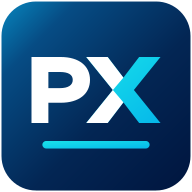
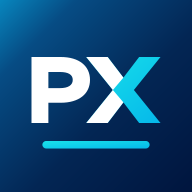
Release Version 4.1.2 visual refinements

Changed region(s): [[0.0, 0.0, 1.0, 1.0]]

diff --git a/index.html b/index.html
@@ -7,10 +7,11 @@
 <meta name="apple-mobile-web-app-capable" content="yes">
 <meta name="apple-mobile-web-app-status-bar-style" content="black-translucent">
 <meta name="apple-mobile-web-app-title" content="PX 工作台">
-<link rel="manifest" href="manifest.webmanifest">
-<link rel="apple-touch-icon" href="icon-192.png">
-<link rel="icon" type="image/png" sizes="32x32" href="favicon.png">
-<link rel="icon" type="image/svg+xml" href="assets/brand/px-icon.svg">
+<link rel="manifest" href="manifest.webmanifest?v=4.1.2">
+<link rel="apple-touch-icon" sizes="180x180" href="apple-touch-icon.png?v=4.1.2">
+<link rel="icon" type="image/png" sizes="16x16" href="favicon-16.png?v=4.1.2">
+<link rel="icon" type="image/png" sizes="32x32" href="favicon.png?v=4.1.2">
+<link rel="icon" type="image/svg+xml" href="assets/brand/px-icon.svg?v=4.1.2">
 <title>PX 通路工作台</title>
 <style>
 :root{
@@ -115,22 +116,27 @@ input,select{border-color:#b9cad5;background:#fff}.cost-override-note{display:bl
 
 /* Version 4.1.1 — restrained result surfaces and author cleanup */
 .hero:after{opacity:.035}.result{color:#075f68;background:#f0f8f8;border:1px solid #c9e3e5;box-shadow:0 8px 20px rgba(16,42,67,.07)}.result.excellent{color:#174f38;background:#f2f8f4;border-color:#cfe4d7}.result.warn{color:#795316;background:#fff9ed;border-color:#ead9b5}.result.danger{color:#87363c;background:#fff4f4;border-color:#e9ced0}.result.neutral{color:#405a6a;background:#f3f6f8;border-color:#d8e2e8}.result small,.result em{color:#607482;opacity:1}.result strong{color:inherit;white-space:nowrap}.margin-status{border:0;color:#fff}.margin-status.excellent{background:#216847;color:#fff}.margin-status.target{background:#08727c;color:#fff}.margin-status.optimize{background:#936113;color:#fff}.margin-status.low{background:#9b4148;color:#fff}.scenario-state.excellent{background:#216847;color:#fff}.scenario-state.target{background:#08727c;color:#fff}.scenario-state.optimize{background:#936113;color:#fff}.scenario-state.low{background:#9b4148;color:#fff}.threshold-settings summary{gap:8px}.settings-icon{flex:0 0 auto;width:19px;height:19px;color:#405769;fill:none;stroke:currentColor;stroke-width:1.8;stroke-linecap:round;stroke-linejoin:round}.hs-footer{display:block;text-align:center}.hs-copy{min-width:0}.hs-copy .built-by{margin-top:2px;font-size:10px;color:#70818c}
+
+/* Version 4.1.2 — final micro-refinements and full-bleed app icons */
+.hs-copy .built-by{font-size:9px;font-weight:400;color:#70818c;opacity:.6}
+.tabs-shell{position:relative;min-width:0}
+@media(max-width:620px){.tabs-shell::after{content:"";position:absolute;z-index:3;top:10px;right:0;bottom:10px;width:32px;background:linear-gradient(90deg,rgba(243,246,248,0),rgba(243,246,248,.98));pointer-events:none}.tabs-shell.at-end::after,.tabs-shell.no-overflow::after{display:none}}
 </style>
 </head>
 <body>
 <main class="app">
 <header class="hero">
  <div class="brand"><img class="brand-logo" src="assets/brand/px-logo.svg" alt="PX"><div class="brand-copy"><h1>PX 通路工作台</h1><p><span class="developer-primary">開發者：弘昇</span><span class="developer-secondary">｜Built by HS</span></p></div></div>
- <div class="meta"><span class="pill">VERSION 4.1.1</span><span class="pill">個人工作輔助工具</span><span class="pill">固定稅率 5%</span></div>
+ <div class="meta"><span class="pill">VERSION 4.1.2</span><span class="pill">個人工作輔助工具</span><span class="pill">固定稅率 5%</span></div>
 </header>
 
-<nav class="tabs">
+<div class="tabs-shell"><nav class="tabs">
  <button class="tab active" data-tab="calc">毛利正算</button>
  <button class="tab" data-tab="reverse">回推售價</button>
  <button class="tab" data-tab="scenario">情境比較</button>
  <button class="tab" data-tab="promo">促銷試算</button>
  <button class="tab" data-tab="basis">計算依據</button>
-</nav>
+</nav></div>
 
 <section id="calc" class="panel active">
  <div class="card">
@@ -361,7 +367,7 @@ function productInfoMarkup(binding,product,data){
 function salesMarkup(data,analysis){
  if(!data||!analysis)return `<section class="card px-sales-card"><div class="px-section-head"><h2>PX 銷售表現</h2></div><div class="px-empty">此商品目前沒有可確認的 PX 實銷與前毛資料。成本主檔保留，前毛與相關試算不推算假資料。</div></section>`;
  const averageLabel=analysis.validCount>=3?"近 3 月均銷":"資料起始至今月均銷",monthRows=data.sales.map((value,index)=>{const prelaunch=index<analysis.launchIndex,label=prelaunch?"尚無資料":Number.isFinite(value)?countText(value):"—";return `<div class="month-row${prelaunch?" prelaunch":""}"><span>${PX_PERIODS[index]}</span><b>${label}</b></div>`}).join("");
- return `<section class="card px-sales-card"><div class="px-section-head"><h2>PX 銷售表現</h2>${analysis.isNew?'<span class="new-badge">近期新增資料</span>':""}</div><div class="px-kpi-grid"><div class="px-metric"><span>實銷資料起始</span><b>${analysis.launchMonth}</b></div><div class="px-metric"><span>最新月實銷</span><b>${countText(analysis.latest)}</b><small>${analysis.latestMonth}</small></div><div class="px-metric"><span>${averageLabel}</span><b>${nf1.format(analysis.shortAverage)}</b></div><div class="px-metric"><span>近期月均銷</span><b>${nf1.format(analysis.recentAverage)}</b><small>最多採最近 13 個有實銷資料月份</small></div><div class="px-metric"><span>去年同期 YoY</span><b>${analysis.yoyText}</b></div><div class="px-metric"><span>目前單店月銷</span><b>${Number.isFinite(analysis.perStore)?nf1.format(analysis.perStore)+" 支 / 店 / 月":"—"}</b></div></div><div class="trend-wrap"><div class="trend-title"><b>實銷趨勢</b><small>${PX_PERIODS[0]} ～ ${PX_PERIODS[PX_PERIODS.length-1]}</small></div>${trendChart(data,analysis)}</div><details class="monthly-details"><summary>查看完整實銷</summary><div class="monthly-grid">${monthRows}</div></details><div class="px-data-note">資料來源：@PX實銷_0902(1).xls；資料起始前空白保留為 null，資料起始後的真實 0 會納入平均與趨勢。</div></section>`;
+ return `<section class="card px-sales-card"><div class="px-section-head"><h2>PX 銷售表現</h2>${analysis.isNew?'<span class="new-badge">近期新增資料</span>':""}</div><div class="px-kpi-grid"><div class="px-metric"><span>實銷資料起始</span><b>${analysis.launchMonth}</b></div><div class="px-metric"><span>最新月實銷</span><b>${countText(analysis.latest)}</b><small>${analysis.latestMonth}</small></div><div class="px-metric"><span>${averageLabel}</span><b>${nf1.format(analysis.shortAverage)}</b></div><div class="px-metric"><span>近期月均銷</span><b>${nf1.format(analysis.recentAverage)}</b><small>最多採最近 13 個有實銷資料月份</small></div><div class="px-metric"><span>去年同期 YoY</span><b>${analysis.yoyText}</b><small>較去年同期</small></div><div class="px-metric"><span>目前單店月銷</span><b>${Number.isFinite(analysis.perStore)?nf1.format(analysis.perStore)+" 支 / 店 / 月":"—"}</b></div></div><div class="trend-wrap"><div class="trend-title"><b>實銷趨勢</b><small>${PX_PERIODS[0]} ～ ${PX_PERIODS[PX_PERIODS.length-1]}</small></div>${trendChart(data,analysis)}</div><details class="monthly-details"><summary>查看完整實銷</summary><div class="monthly-grid">${monthRows}</div></details><div class="px-data-note">資料來源：@PX實銷_0902(1).xls；資料起始前空白保留為 null，資料起始後的真實 0 會納入平均與趨勢。</div></section>`;
 }
 const numericIndexes=sales=>sales.map((value,index)=>Number.isFinite(value)?index:-1).filter(index=>index>=0);
 const latestNumericIndex=sales=>{const indexes=numericIndexes(sales);return indexes.length?indexes[indexes.length-1]:-1};
@@ -519,6 +525,9 @@ function fallbackCopyText(text){const area=document.createElement("textarea");ar
 async function copyCalcResult(){const text=buildCalcResultText(),feedback=$("copyFeedback");let copied=false;try{if(navigator.clipboard?.writeText){await navigator.clipboard.writeText(text);copied=true}}catch(e){}if(!copied)try{copied=fallbackCopyText(text)}catch(e){}feedback.textContent=copied?"已複製，可貼到 LINE 或 Email":"無法自動複製，請確認瀏覽器權限";setTimeout(()=>{feedback.textContent=""},3000)}
 function clearCalculation(){["cPrice","sPriceA","sPrice","sPriceC","sPromoA","sPromoB","sPromoC","pA","pB"].forEach(id=>{$(id).value=""});$("promoType").value="bogo";calcC();calcS();updatePromoUI();$("copyFeedback").textContent="已清除試算輸入，商品與成本已保留";save()}
 document.querySelectorAll(".tab").forEach(b=>b.onclick=()=>{document.querySelectorAll(".tab,.panel").forEach(x=>x.classList.remove("active"));b.classList.add("active");$(b.dataset.tab).classList.add("active")});
+const tabsShell=document.querySelector(".tabs-shell"),tabsNav=document.querySelector(".tabs");
+function updateTabScrollHint(){const noOverflow=tabsNav.scrollWidth<=tabsNav.clientWidth+1,atEnd=tabsNav.scrollLeft+tabsNav.clientWidth>=tabsNav.scrollWidth-1;tabsShell.classList.toggle("no-overflow",noOverflow);tabsShell.classList.toggle("at-end",atEnd)}
+tabsNav.addEventListener("scroll",updateTabScrollHint,{passive:true});window.addEventListener("resize",updateTabScrollHint);requestAnimationFrame(updateTabScrollHint);
 ["cPrice","cCost","cFee"].forEach(id=>$(id).addEventListener("input",calcC));
 ["rCost","rTarget","rFee"].forEach(id=>$(id).addEventListener("input",calcR));
 document.querySelectorAll("[data-r]").forEach(b=>b.onclick=()=>{$("rTarget").value=b.dataset.r;calcR()});
@@ -532,6 +541,6 @@ try{const s=JSON.parse(localStorage.getItem("opMarginV3")||"null");if(s)storeIds
 setupProductSelectors();
 setupThresholdSettings();
 calcC();calcR();calcS();updatePromoUI();
-if("serviceWorker"in navigator)window.addEventListener("load",()=>navigator.serviceWorker.register("service-worker.js"));
+if("serviceWorker"in navigator)window.addEventListener("load",()=>navigator.serviceWorker.register("service-worker.js?v=4.1.2"));
 </script>
 </body></html>

diff --git a/service-worker.js b/service-worker.js
@@ -1,5 +1,5 @@
-const CACHE='px-workbench-v4.1.1';
-const ASSETS=['./','./index.html','./px-sales-data.js','./px-replacement-data.js','./manifest.webmanifest','./assets/brand/px-logo.svg','./assets/brand/px-icon.svg','./favicon.png','./icon-192.png','./icon-512.png'];
+const CACHE='px-workbench-v4.1.2';
+const ASSETS=['./','./index.html','./px-sales-data.js','./px-replacement-data.js','./manifest.webmanifest?v=4.1.2','./assets/brand/px-logo.svg','./assets/brand/px-icon.svg?v=4.1.2','./apple-touch-icon.png?v=4.1.2','./favicon-16.png?v=4.1.2','./favicon.png?v=4.1.2','./icon-192.png?v=4.1.2','./icon-512.png?v=4.1.2'];
 self.addEventListener('install',e=>{self.skipWaiting();e.waitUntil(caches.open(CACHE).then(c=>c.addAll(ASSETS)))});
 self.addEventListener('activate',e=>e.waitUntil(caches.keys().then(k=>Promise.all(k.filter(x=>x!==CACHE).map(x=>caches.delete(x)))).then(()=>self.clients.claim())));
 self.addEventListener('fetch',e=>e.respondWith(fetch(e.request).then(r=>{const c=r.clone();caches.open(CACHE).then(x=>x.put(e.request,c));return r}).catch(()=>caches.match(e.request))));
